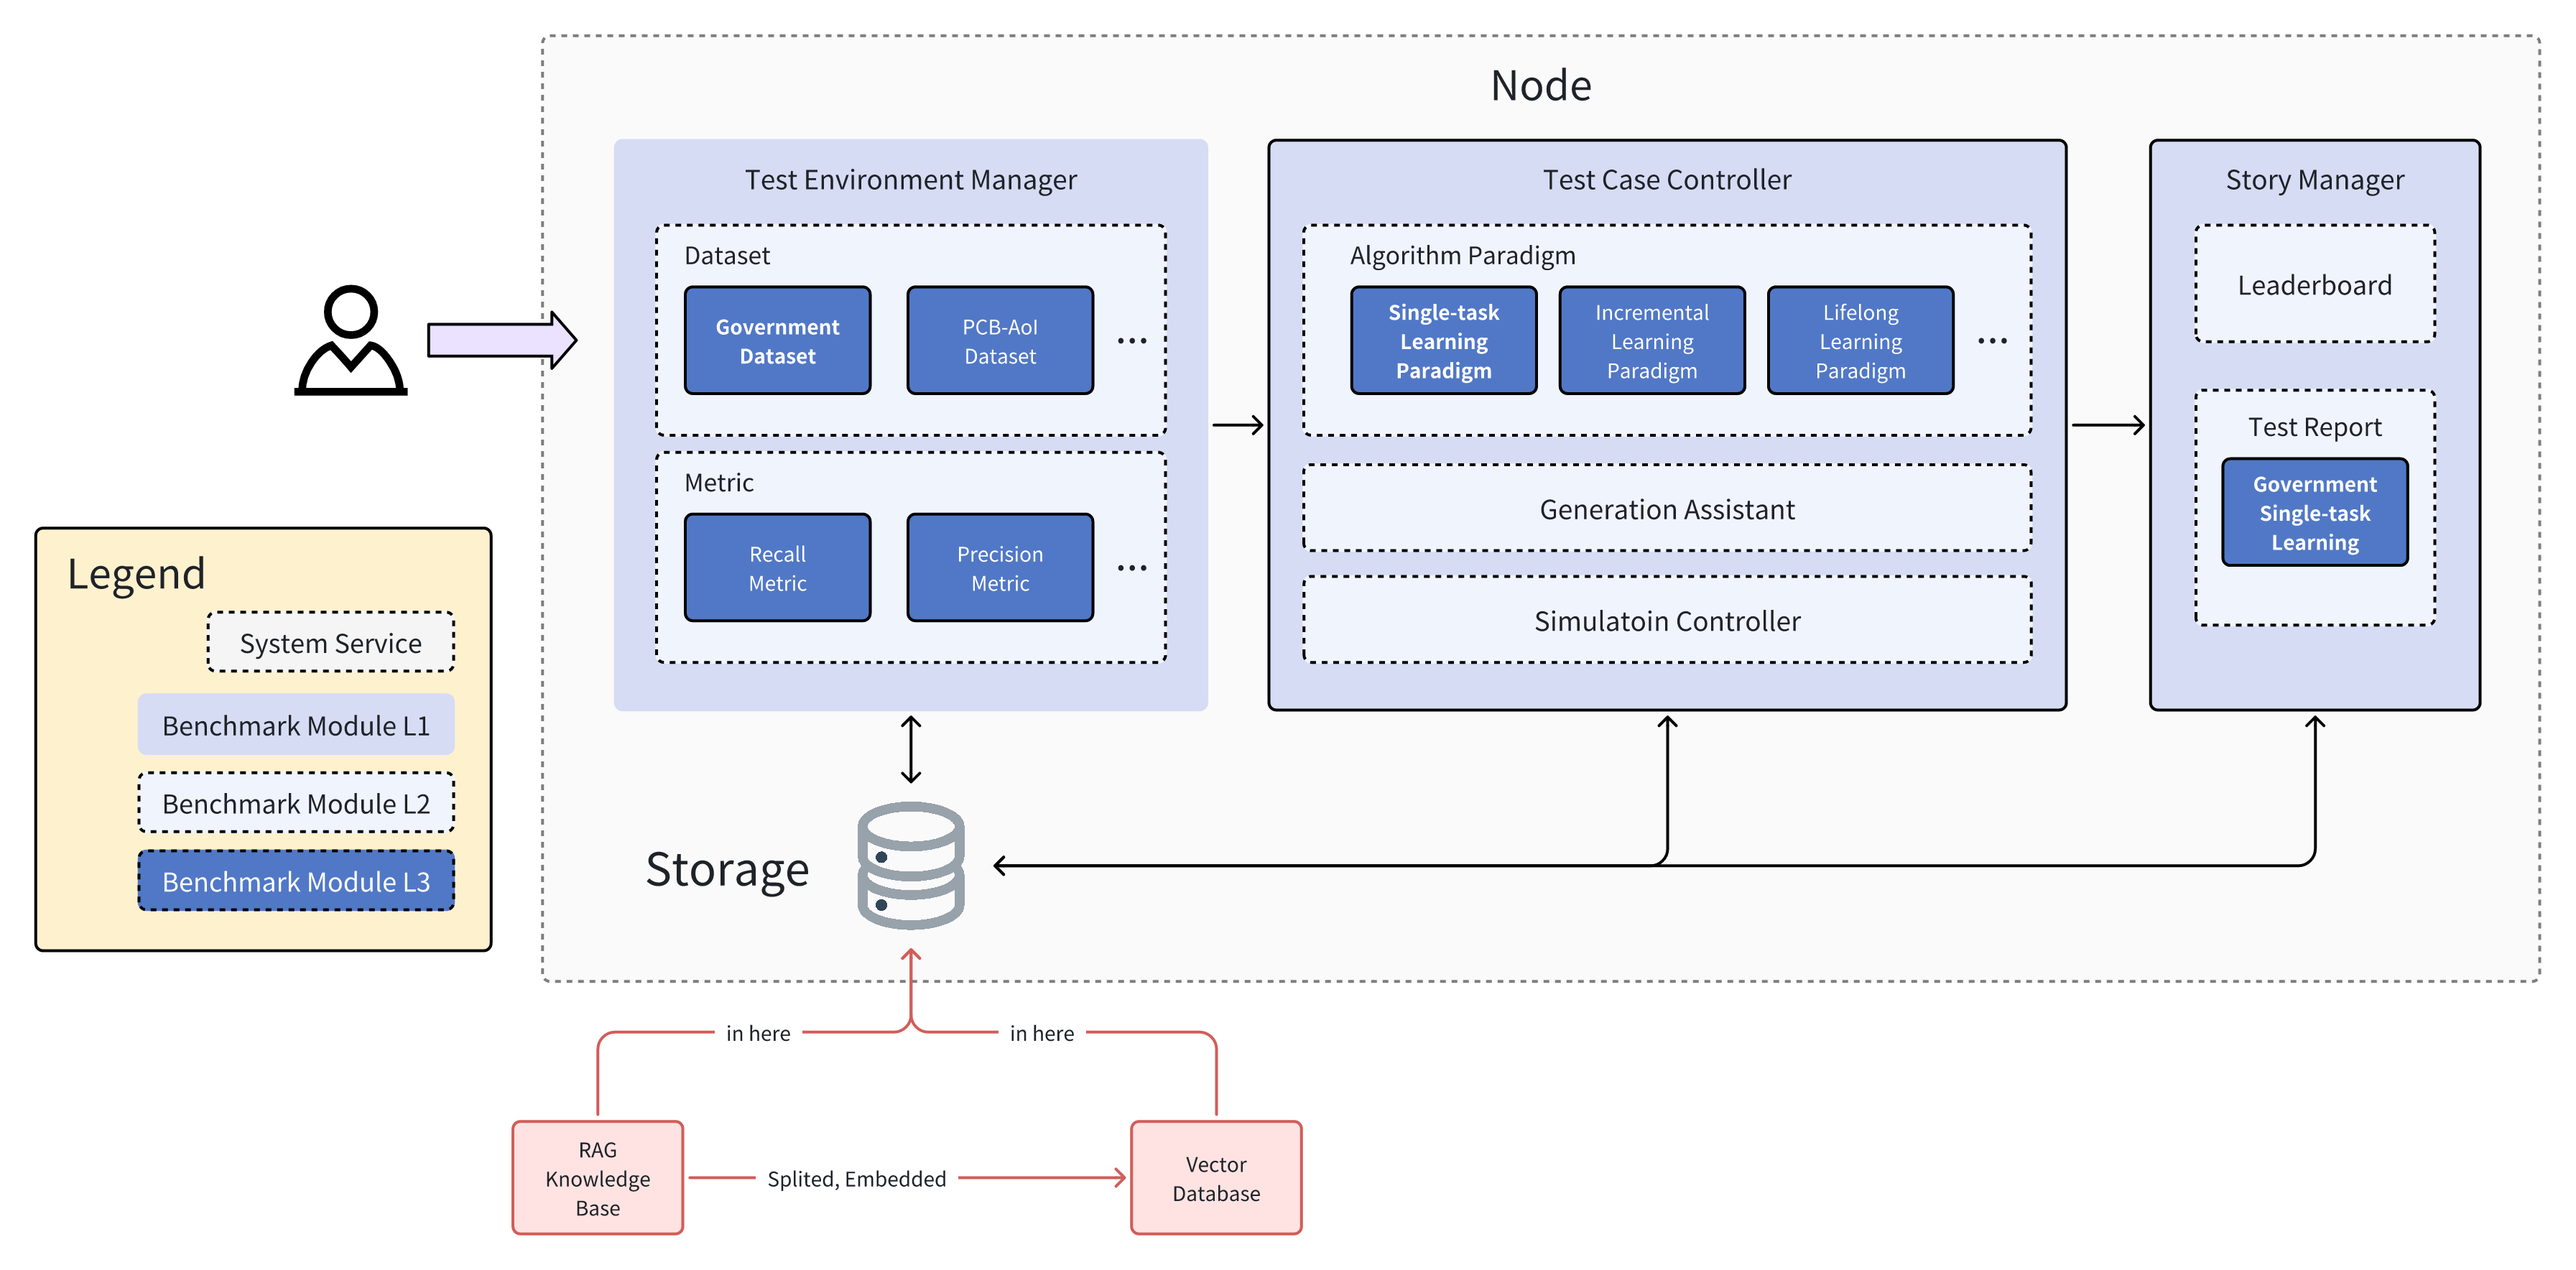
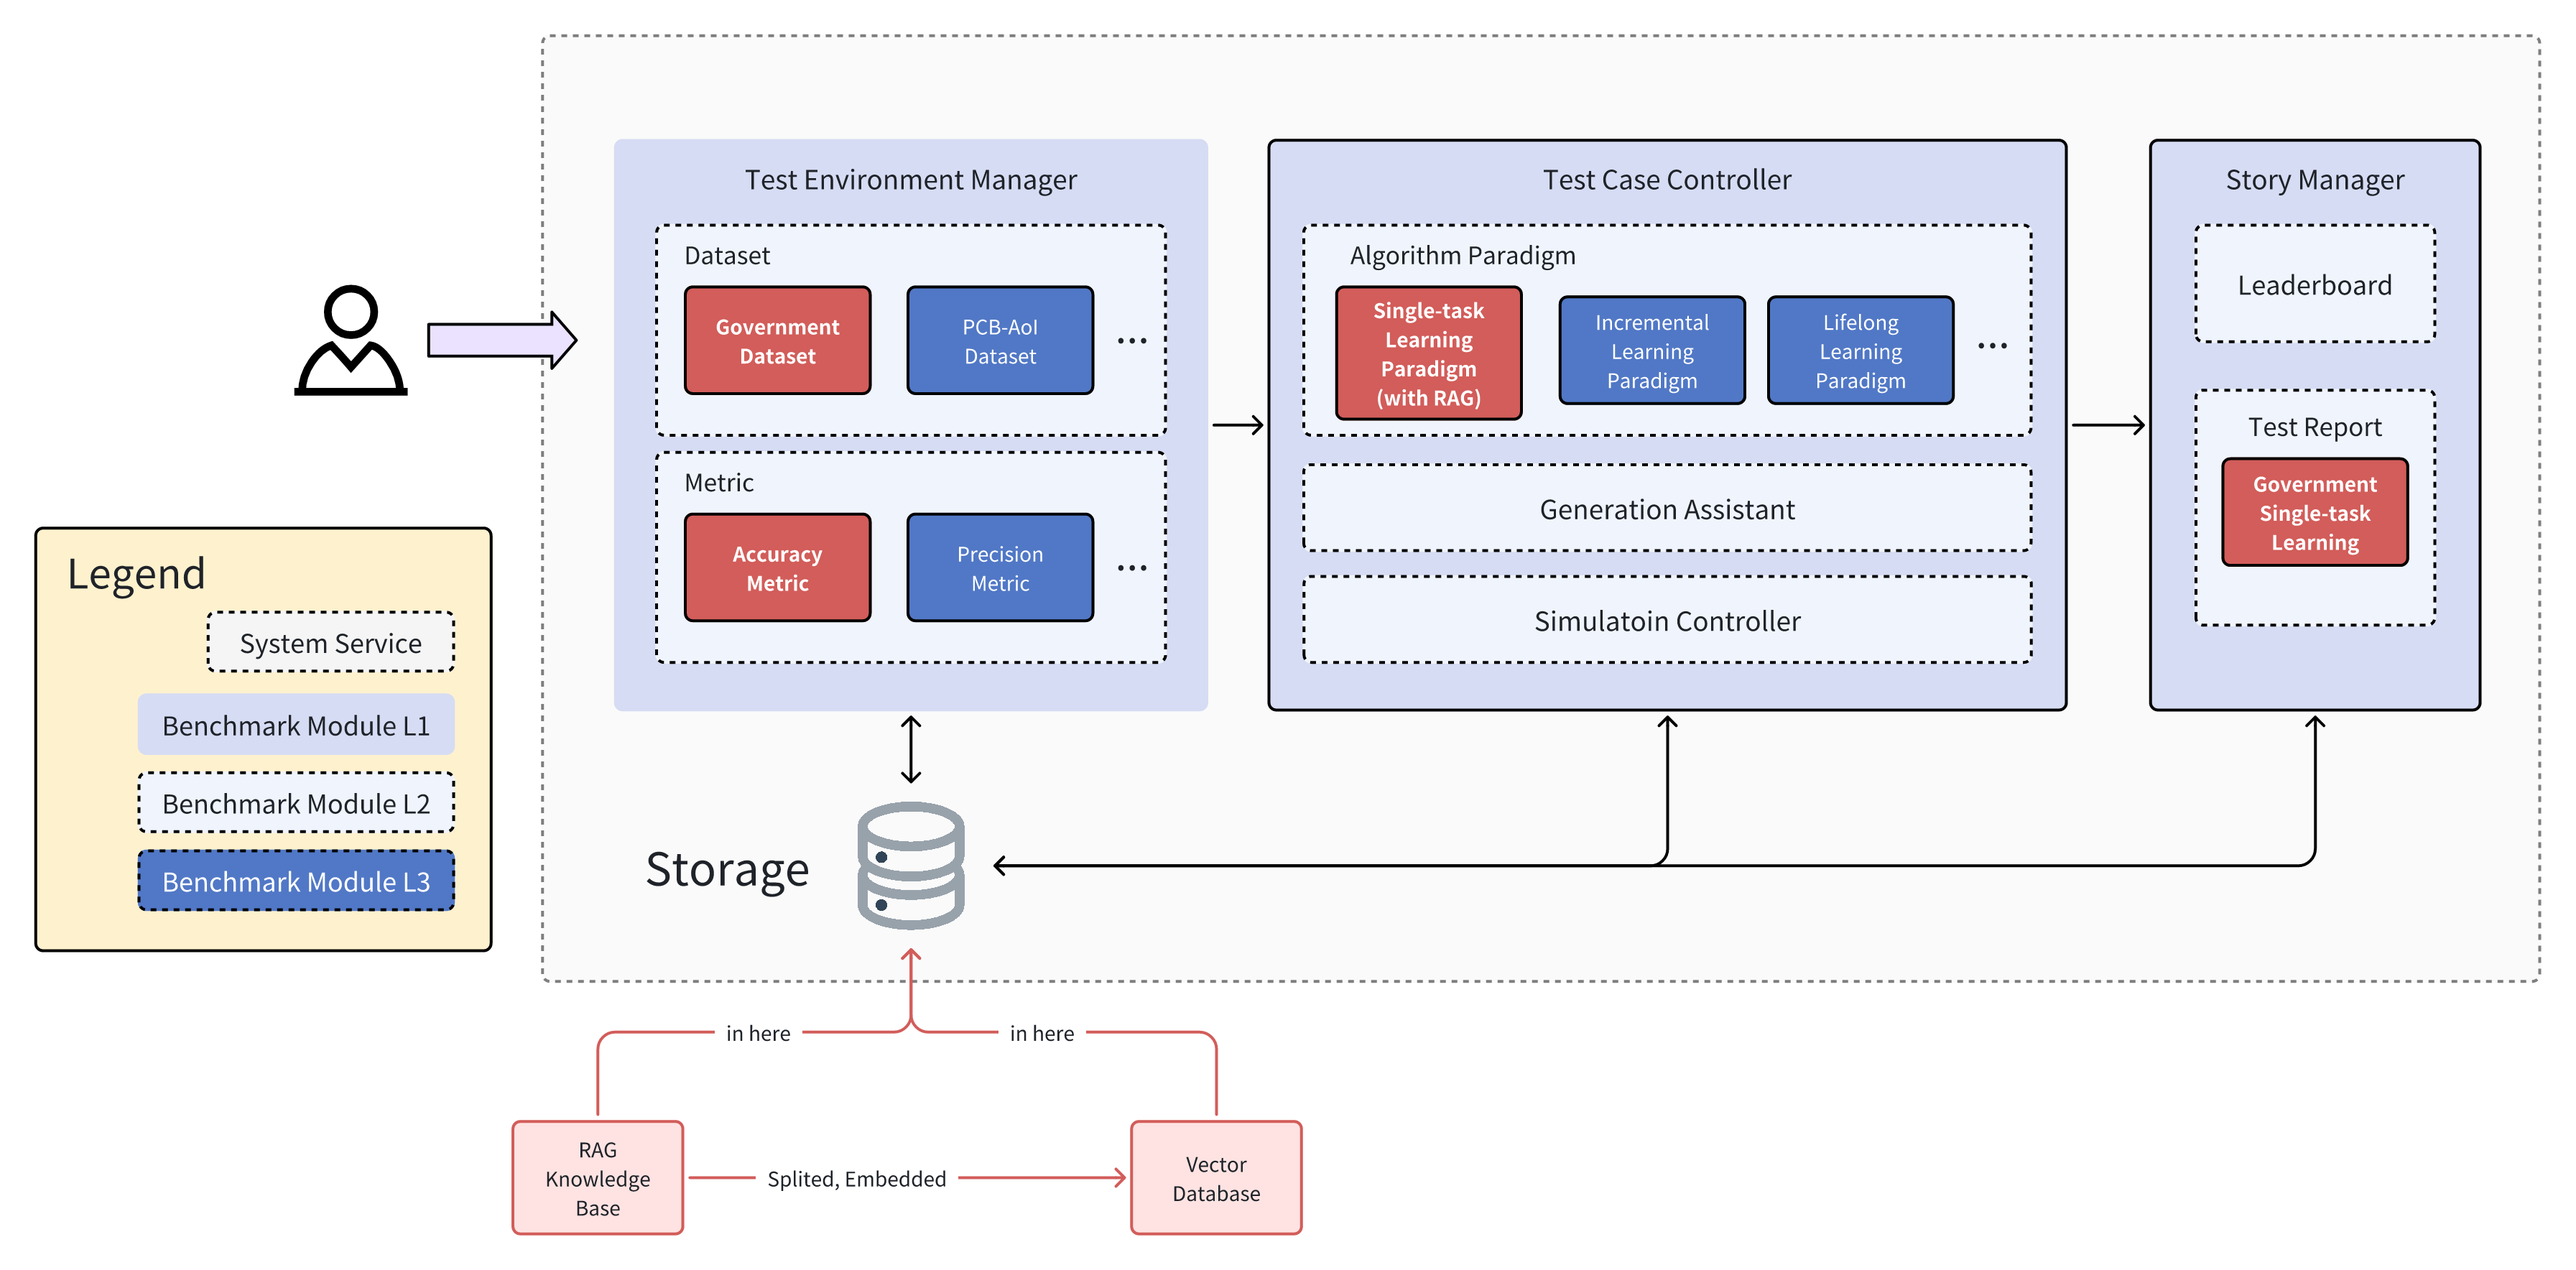
update government proposal

diff --git a/docs/proposals/scenarios/government_affairs/government_affairs_zh.md b/docs/proposals/scenarios/government_affairs/government_affairs_zh.md
@@ -31,9 +31,11 @@
 ## 3. 项目目标
 
 1. 构建**跨省份政务知识库**用于RAG增强的LLM基准测试
-2. 设计**两种测试模式**：
-   - *省内模式*：仅使用本省数据生成应答
-   - *跨省模式*：整合全国数据生成响应
+2. 设计**四种测试模式**：
+   - *Type 1: 无RAG模式*
+   - *Type 2: 只用和被测边缘节点相关的数据作为RAG知识库*
+   - *Type 3: 使用所有边缘节点数据作为RAG知识库*
+   - *Type 4: 使用所有和被测边缘节点不相关的数据作为RAG知识库*
 3. 在Ianvs中实现并对比主流RAG架构
 
 ## 4. 方法
@@ -260,26 +262,47 @@ vector_db.save_local("./vector_store")
 
 ## 4.4 测试方案
 
-对于 LLM + RAG 的方案在 Government 数据上的效果，我认为需要有三个对比：
+在实验设计方面，对于 LLM + RAG 的方案在 Government 数据上的效果，我认为需要有三个对比：
 
 1. LLM only
 2. LLM + RAG(only knowledge data relevant to edge question)
 3. LLM + RAG(all knowledge data)
+3. LLM + RAG(all knowledge data not relevant to edge question)
 
-1的实验之前的工作已经做过。2和3都是加入RAG机制之后的对比试验。
+这里以“北京”作为被测试的省份边缘节点来举例说明，会有以下四种实验设置:
 
-要把2和3区分开，是因为在政务数据方面，对于每个地区来说都是一个独立的边缘节点，每个地区可能有自己独立的政务数据。
+| 类别 | 被测节点 | 知识库 | 
+| --- | --- | --- |
+| Type 1 | 北京 | 没有任何知识库，不需要RAG |
+| Type 2 | 北京 | 北京的相关知识库 |
+| Type 3 | 北京 | 北京、河北、河南、山东、山西、湖南、湖北...等全部省市自治区的知识库 |
+| Type 4 | 北京 | 河北、河南、山东、山西、湖南、湖北...等除了北京以外的全部省市自治区的知识库 |
 
-我们想要观测当RAG的知识库中仅包含该地区政务知识库 vs 包含全量混淆的政务知识库的情况下，在政务数据集上面的测试效果会显示出什么样的区别。
+1的实验之前的工作已经做过。2、3、4都是加入RAG机制之后的对比试验。
 
-基于上述考虑，我们代码的编写需要格外注意：当切换边缘节点进行这种交叉测试时，如何快速便捷的切换需要检索的数据库范围？
+我们想要观测当RAG的知识库中仅包含该地区政务知识库 vs 包含全量的政务知识库 vs 不包含该地区政务知识的知识库 这三种情况下，在政务数据集上面的测试效果会显示出什么样的区别。
+
+在评价指标方面，我们认为由于不同省份之间的知识库质量等变量难以控制，不同的省份（边缘节点）之间的指标不具有可比性。
+
+对于某个地区的评测，我们有 Type 1 2 3 4 四种实验设计，我们会用 Accuracy 作为指标计算得分，然后取 Type 1 2 3 4 四个实验得分的平均分作为这个地区的最终政务能力得分。**这里需要声明，本实验的Benchmark设计具有局限性，只能在一定程度上反映不同大模型在不同省份的政务问题上面的能力，仅供参考，不能完全准确的反映某个大模型的政务能力。**
+
+最后，在代码实现方面，基于上述考虑，我们代码的编写需要格外注意：当切换边缘节点进行这种交叉测试时，如何快速便捷的切换需要检索的数据库范围？
 
 好在这部分测试的设计不会影响到整体的结构，我们只需要在预处理知识库的时候，给不同边缘节点的对应的知识库分开存储，然后在 inference 的时候设计一个传入的参数，可以选择参考哪些知识库即可。
 
 上述的这些代码设计都只会限于 `example` 目录下的代码，不会涉及到 Core 部分的代码更改。
 
+## 5. 局限性与未来工作
 
-## 5. 项目进度规划
+当前针对领域专用大模型的提案主要聚焦于引入检索增强生成（RAG）方法，但该框架仍存在以下待探索方向：
+
+- **incremental training**：尚未测试模型在持续学习场景下适应新增数据的能力
+- **fine tuning**：未评估通过微调技术实现领域适应的效果
+- **few-shot learning**：模型在专业领域中基于少量样本的学习能力需进一步验证
+
+后续研究需要针对这些关键组件，开发并测试适用于领域专用场景的完整方法论。
+
+## 6. 项目进度规划
 | 阶段 | 时间 |
 |-----|-----|
 | 数据采集 | 3.3-3.21 |
